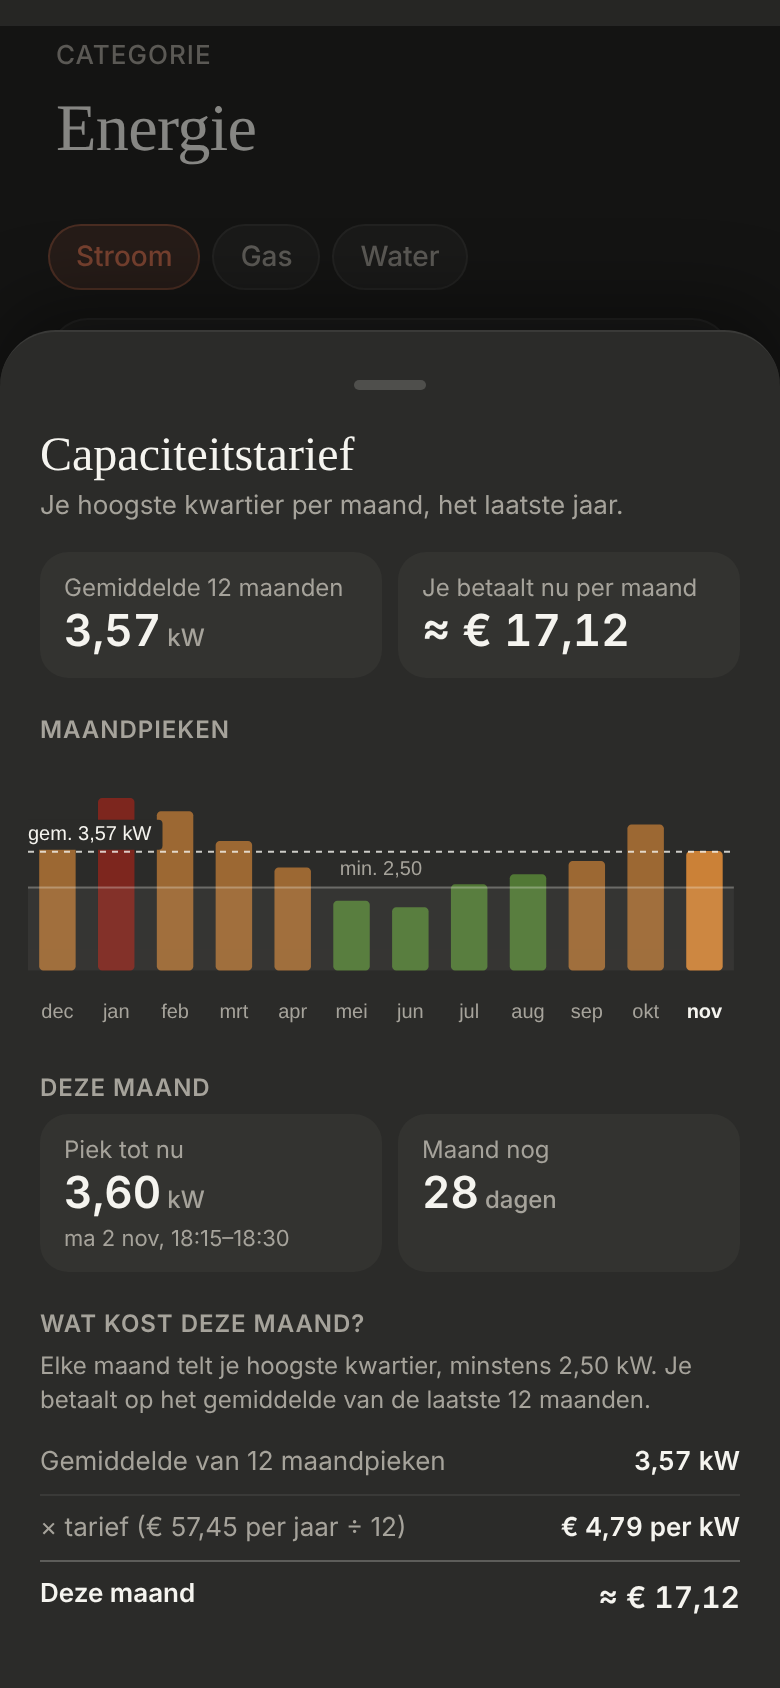
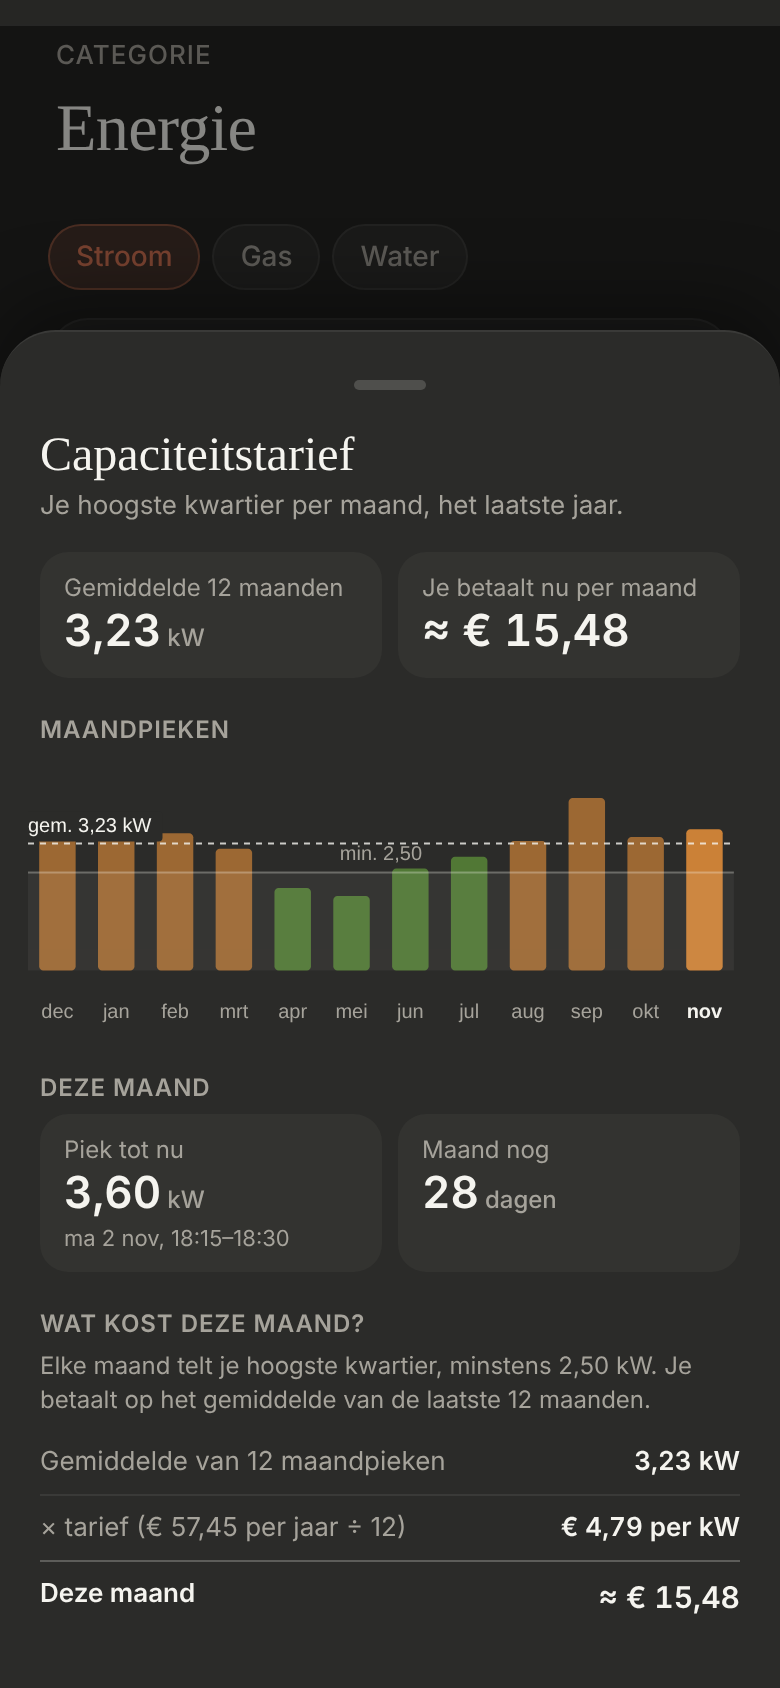
Energie: the capaciteitstarief's earlier months from a template sensor
The P1 meter's peak sensors have no state_class, so HA keeps no
statistics for them. The earlier 11 months now come from the template
sensor "P1 maandpieken" (its YAML is in the design doc); a month it
doesn't have counts as 3,5 kW.

Claude-Session: https://claude.ai/code/session_01KM6EwXvT22zbGn1J5Xot1E

diff --git a/src/components/energy/CapacitySheet.tsx b/src/components/energy/CapacitySheet.tsx
@@ -6,7 +6,7 @@ import 'apexcharts/bar';
 import 'apexcharts/features/annotations';
 import { ENERGY_QUARTER } from '../../config/energy';
 import { usePeriodicFetch } from '../../hooks/usePeriodicFetch';
-import { fetchMonthlyMaximums, fetchWhenValueWasReachedThisMonth, numberState, startOfMonth } from '../../lib/statistics';
+import { fetchWhenValueWasReachedThisMonth, numberState, startOfMonth } from '../../lib/statistics';
 import type { HomeAssistant } from '../../types/hass';
 import { BottomSheet } from '../BottomSheet';
 
@@ -15,8 +15,8 @@ interface Props {
   onClose(): void;
 }
 
-/** The months before this one don't change; this month's peak comes from the state. */
-const REFRESH_MONTHS_EVERY_MILLISECONDS = 5 * 60_000;
+/** When the peak was reached only changes with the peak itself; this is plenty. */
+const REFRESH_PEAK_MOMENT_EVERY_MILLISECONDS = 5 * 60_000;
 const QUARTER_HOUR = 15 * 60_000;
 const CHART_HEIGHT = 140;
 /** The earlier months' bars: their colour at 60% ("99" in hex); this month's is the full colour. */
@@ -37,87 +37,73 @@ interface MonthlyPeak {
  */
 export function CapacitySheet({ hass, onClose }: Props) {
   const peakThisMonthWatts = numberState(hass.states, ENERGY_QUARTER.monthPeak);
-  const monthlyMaximums = usePeriodicFetch(
-    () => fetchMonthlyMaximums(hass, ENERGY_QUARTER.monthPeak, ENERGY_QUARTER.monthsInAverage),
-    ENERGY_QUARTER.monthPeak,
-    REFRESH_MONTHS_EVERY_MILLISECONDS,
-  );
   const peakReachedAt = usePeriodicFetch(
     () => fetchWhenValueWasReachedThisMonth(hass, ENERGY_QUARTER.monthPeak),
     `${ENERGY_QUARTER.monthPeak} ${peakThisMonthWatts}`,
-    REFRESH_MONTHS_EVERY_MILLISECONDS,
+    REFRESH_PEAK_MOMENT_EVERY_MILLISECONDS,
   );
+  if (peakThisMonthWatts === undefined) return null;
 
-  const thisMonthStart = startOfMonth(0).getTime();
-  const earlierMonthlyPeaks: MonthlyPeak[] = (monthlyMaximums ?? [])
-    .filter((monthlyMaximum) => monthlyMaximum.monthStart < thisMonthStart)
-    .map((monthlyMaximum) => ({
-      monthStart: monthlyMaximum.monthStart,
-      kilowatts: monthlyMaximum.maximum / 1000,
-    }));
-  const thisMonthPeak: MonthlyPeak[] =
-    peakThisMonthWatts === undefined ? [] : [{ monthStart: thisMonthStart, kilowatts: peakThisMonthWatts / 1000 }];
-  const monthlyPeaks = [...earlierMonthlyPeaks, ...thisMonthPeak];
+  const savedPeakWattsPerMonth = savedMonthlyPeaks(hass);
+  const earlierMonthlyPeaks: MonthlyPeak[] = Array.from(
+    { length: ENERGY_QUARTER.monthsInAverage - 1 },
+    (_unused, monthNumber) => {
+      const monthStart = startOfMonth(ENERGY_QUARTER.monthsInAverage - 1 - monthNumber);
+      const savedPeakWatts = savedPeakWattsPerMonth[monthKey(monthStart)];
+      const peakWatts = savedPeakWatts ?? ENERGY_QUARTER.assumedPeakWattsForMissingMonth;
+      return { monthStart: monthStart.getTime(), kilowatts: peakWatts / 1000 };
+    },
+  );
+  const thisMonthPeak: MonthlyPeak = { monthStart: startOfMonth(0).getTime(), kilowatts: peakThisMonthWatts / 1000 };
+  const monthlyPeaks = [...earlierMonthlyPeaks, thisMonthPeak];
 
   const countedKilowatts = monthlyPeaks.map((monthlyPeak) => Math.max(ENERGY_QUARTER.minimumKilowatts, monthlyPeak.kilowatts));
   const averageKilowatts = countedKilowatts.reduce((sum, kilowatts) => sum + kilowatts, 0) / countedKilowatts.length;
   const euroPerKilowattPerMonth = ENERGY_QUARTER.euroPerKilowattPerYear / 12;
   const costThisMonth = averageKilowatts * euroPerKilowattPerMonth;
-  const numberOfMonths = monthlyPeaks.length;
-  const hasPeaks = numberOfMonths > 0;
 
   return (
     <BottomSheet label="Capaciteitstarief" className="capacity-sheet" onClose={onClose}>
       <h2 className="capacity-sheet__title">Capaciteitstarief</h2>
       <p className="capacity-sheet__subtitle">Je hoogste kwartier per maand, het laatste jaar.</p>
-      {hasPeaks && (
-        <>
-          <div className="capacity-sheet__figures">
-            <Figure
-              label={`Gemiddelde ${numberOfMonths} ${numberOfMonths === 1 ? 'maand' : 'maanden'}`}
-              value={twoDecimals(averageKilowatts)}
-              unit="kW"
-            />
-            <Figure label="Je betaalt nu per maand" value={`≈ ${euros(costThisMonth)}`} />
-          </div>
+      <div className="capacity-sheet__figures">
+        <Figure label={`Gemiddelde ${ENERGY_QUARTER.monthsInAverage} maanden`} value={twoDecimals(averageKilowatts)} unit="kW" />
+        <Figure label="Je betaalt nu per maand" value={`≈ ${euros(costThisMonth)}`} />
+      </div>
 
-          <h3 className="capacity-sheet__heading">Maandpieken</h3>
-          <MonthlyPeaksChart monthlyPeaks={monthlyPeaks} averageKilowatts={averageKilowatts} />
+      <h3 className="capacity-sheet__heading">Maandpieken</h3>
+      <MonthlyPeaksChart monthlyPeaks={monthlyPeaks} averageKilowatts={averageKilowatts} />
 
-          <h3 className="capacity-sheet__heading">Deze maand</h3>
-          <div className="capacity-sheet__figures">
-            {thisMonthPeak.length > 0 && (
-              <Figure
-                label="Piek tot nu"
-                value={twoDecimals(thisMonthPeak[0].kilowatts)}
-                unit="kW"
-                detail={peakReachedAt === undefined ? undefined : readableQuarterHour(peakReachedAt)}
-              />
-            )}
-            <Figure label="Maand nog" value={String(daysLeftInMonth())} unit={daysLeftInMonth() === 1 ? 'dag' : 'dagen'} />
-          </div>
+      <h3 className="capacity-sheet__heading">Deze maand</h3>
+      <div className="capacity-sheet__figures">
+        <Figure
+          label="Piek tot nu"
+          value={twoDecimals(thisMonthPeak.kilowatts)}
+          unit="kW"
+          detail={peakReachedAt === undefined ? undefined : readableQuarterHour(peakReachedAt)}
+        />
+        <Figure label="Maand nog" value={String(daysLeftInMonth())} unit={daysLeftInMonth() === 1 ? 'dag' : 'dagen'} />
+      </div>
 
-          <h3 className="capacity-sheet__heading">Wat kost deze maand?</h3>
-          <p className="capacity-sheet__intro">
-            Elke maand telt je hoogste kwartier, minstens {twoDecimals(ENERGY_QUARTER.minimumKilowatts)} kW. Je betaalt op het
-            gemiddelde van de laatste {ENERGY_QUARTER.monthsInAverage} maanden.
-          </p>
-          <ul className="capacity-sheet__calculation">
-            <li>
-              Gemiddelde van {numberOfMonths} {numberOfMonths === 1 ? 'maandpiek' : 'maandpieken'}
-              <strong>{twoDecimals(averageKilowatts)} kW</strong>
-            </li>
-            <li>
-              × tarief ({euros(ENERGY_QUARTER.euroPerKilowattPerYear)} per jaar ÷ 12)
-              <strong>{euros(euroPerKilowattPerMonth)} per kW</strong>
-            </li>
-            <li className="capacity-sheet__total">
-              Deze maand
-              <strong>≈ {euros(costThisMonth)}</strong>
-            </li>
-          </ul>
-        </>
-      )}
+      <h3 className="capacity-sheet__heading">Wat kost deze maand?</h3>
+      <p className="capacity-sheet__intro">
+        Elke maand telt je hoogste kwartier, minstens {twoDecimals(ENERGY_QUARTER.minimumKilowatts)} kW. Je betaalt op het
+        gemiddelde van de laatste {ENERGY_QUARTER.monthsInAverage} maanden.
+      </p>
+      <ul className="capacity-sheet__calculation">
+        <li>
+          Gemiddelde van {ENERGY_QUARTER.monthsInAverage} maandpieken
+          <strong>{twoDecimals(averageKilowatts)} kW</strong>
+        </li>
+        <li>
+          × tarief ({euros(ENERGY_QUARTER.euroPerKilowattPerYear)} per jaar ÷ 12)
+          <strong>{euros(euroPerKilowattPerMonth)} per kW</strong>
+        </li>
+        <li className="capacity-sheet__total">
+          Deze maand
+          <strong>≈ {euros(costThisMonth)}</strong>
+        </li>
+      </ul>
     </BottomSheet>
   );
 }
@@ -243,6 +229,23 @@ function MonthlyPeaksChart({ monthlyPeaks, averageKilowatts }: { monthlyPeaks: M
     </div>
   );
 }
+
+/**
+ * The peaks of the months before this one, in W by month ("2026-10"), as the
+ * template sensor "P1 maandpieken" keeps them in its `peaks` attribute
+ * (docs/design/energie-capaciteit). Empty while it doesn't exist.
+ */
+function savedMonthlyPeaks(hass: HomeAssistant): Record<string, number | undefined> {
+  const peaksAttribute = hass.states[ENERGY_QUARTER.monthlyPeaks]?.attributes.peaks;
+  const isPeaksObject = typeof peaksAttribute === 'object' && peaksAttribute !== null;
+  if (!isPeaksObject) return {};
+
+  const numberPeaks = Object.entries(peaksAttribute).map(([month, watts]) => [month, Number(watts)] as const);
+  return Object.fromEntries(numberPeaks.filter(([_month, watts]) => !Number.isNaN(watts)));
+}
+
+/** "2026-11", the way the template sensor names a month. */
+const monthKey = (monthStart: Date) => `${monthStart.getFullYear()}-${String(monthStart.getMonth() + 1).padStart(2, '0')}`;
 
 /** The quarter-hour bar's colour band a peak falls in: green up to 3 kW, orange up to 5, then red. */
 function colorFor(kilowatts: number): string {

diff --git a/src/dev/mockHass.ts b/src/dev/mockHass.ts
@@ -21,6 +21,19 @@ const entity = (entity_id: string, state: string, attributes: Attrs = {}): HassE
   context: { id: 'mock', user_id: null, parent_id: null },
 });
 
+/** The 8 months before this one, in W by month ("2026-10"), oldest first. */
+const earlierMonthlyPeaks = () => {
+  const peaks = [3100, 2100, 1900, 2600, 2900, 3300, 4400, 3400];
+  return Object.fromEntries(
+    peaks.map((watts, monthIndex) => {
+      const month = new Date();
+      month.setDate(1);
+      month.setMonth(month.getMonth() - peaks.length + monthIndex);
+      return [`${month.getFullYear()}-${String(month.getMonth() + 1).padStart(2, '0')}`, watts];
+    }),
+  );
+};
+
 /** A fake camera image: a dark gradient, as a data URL. The trailing "#" keeps a cache-buster harmless. */
 const cameraImage = (a: string, b: string, glow: string) => {
   const svg = `<svg xmlns="http://www.w3.org/2000/svg" width="640" height="360"><defs><linearGradient id="g" x1="0" y1="0" x2="0" y2="1"><stop offset="0" stop-color="${a}"/><stop offset="1" stop-color="${b}"/></linearGradient><radialGradient id="r" cx=".35" cy=".75" r=".5"><stop offset="0" stop-color="${glow}" stop-opacity=".55"/><stop offset="1" stop-color="${glow}" stop-opacity="0"/></radialGradient></defs><rect width="640" height="360" fill="url(#g)"/><rect width="640" height="360" fill="url(#r)"/></svg>`;
@@ -69,6 +82,8 @@ function baseStates(): HassEntities {
     entity('sensor.p1_meter_power', '196', { unit_of_measurement: 'W', device_class: 'power', state_class: 'measurement' }),
     entity('sensor.p1_meter_average_demand', '4600', { unit_of_measurement: 'W', device_class: 'power' }),
     entity('sensor.p1_meter_peak_demand_current_month', '3600', { unit_of_measurement: 'W', device_class: 'power' }),
+    // The template sensor with the earlier months' peaks (docs/design/energie-capaciteit); the oldest 3 are missing.
+    entity('sensor.p1_maandpieken', '3600', { unit_of_measurement: 'W', peaks: earlierMonthlyPeaks() }),
     entity('sensor.p1_meter_energy_consumption_daily', '8.13', { unit_of_measurement: 'kWh', state_class: 'total_increasing' }),
     entity('sensor.garage_smappee_total_production_today', '3.86', { unit_of_measurement: 'kWh', state_class: 'total_increasing' }),
     entity('sensor.p1_meter_energy_production_daily', '1.24', { unit_of_measurement: 'kWh', state_class: 'total_increasing' }),
@@ -340,20 +355,6 @@ export function createMockHass(onChange: (hass: HomeAssistant) => void) {
         (msg.statistic_ids as string[]).map((statisticId) => [
           statisticId,
           averages.map((mean, barNumber) => ({ start: firstStart + barNumber * fiveMinutes, mean })),
-        ]),
-      ) as T;
-    }
-    // The monthly peaks of the last year (docs/design/energie-capaciteit), in W; this month's comes from the state.
-    if (msg.type === 'recorder/statistics_during_period' && msg.period === 'month') {
-      const monthlyPeaks = [4100, 5200, 4800, 3900, 3100, 2100, 1900, 2600, 2900, 3300, 4400, 3400];
-      const firstMonth = new Date(String(msg.start_time));
-      return Object.fromEntries(
-        (msg.statistic_ids as string[]).map((statisticId) => [
-          statisticId,
-          monthlyPeaks.map((max, monthIndex) => ({
-            start: new Date(firstMonth.getFullYear(), firstMonth.getMonth() + monthIndex, 1).getTime(),
-            max,
-          })),
         ]),
       ) as T;
     }

diff --git a/src/lib/statistics.ts b/src/lib/statistics.ts
@@ -150,42 +150,6 @@ export function startOfMonth(monthsAgo: number) {
   return firstOfMonth;
 }
 
-export interface MonthlyMaximum {
-  /** Local midnight on the 1st of the month, in ms. */
-  monthStart: number;
-  maximum: number;
-}
-
-/**
- * A sensor's highest value per month, for this month and the
- * `numberOfMonths - 1` before it, oldest first: HA's long-term statistics
- * (`max`). This month's is as far as HA's last full hour. A month without
- * statistics is missing.
- */
-export async function fetchMonthlyMaximums(
-  hass: HomeAssistant,
-  entityId: string,
-  numberOfMonths: number,
-): Promise<MonthlyMaximum[]> {
-  const statisticsPerEntity = await hass.callWS<
-    Record<string, Array<{ start: number | string; max?: number | null }>> | undefined
-  >({
-    type: 'recorder/statistics_during_period',
-    start_time: startOfMonth(numberOfMonths - 1).toISOString(),
-    statistic_ids: [entityId],
-    period: 'month',
-    types: ['max'],
-  });
-
-  const monthlyRows = statisticsPerEntity?.[entityId] ?? [];
-  return monthlyRows
-    .filter((monthlyRow) => isNumber(monthlyRow.max))
-    .map((monthlyRow) => ({
-      monthStart: typeof monthlyRow.start === 'number' ? monthlyRow.start : Date.parse(monthlyRow.start),
-      maximum: monthlyRow.max as number,
-    }));
-}
-
 /**
  * When the sensor got its current value this month, from HA's history, in ms;
  * undefined when the history doesn't go back far enough to tell (HA keeps it

diff --git a/src/config/energy.ts b/src/config/energy.ts
@@ -36,6 +36,10 @@ export const ENERGY_QUARTER = {
   marksAtKilowatts: [4, 6],
   /** The sheet (docs/design/energie-capaciteit): the bill takes the average of this many monthly peaks. */
   monthsInAverage: 12,
+  /** The template sensor that keeps the earlier months' peaks, in its `peaks` attribute. */
+  monthlyPeaks: Entity.ELECTRICITY_MONTHLY_PEAKS,
+  /** A month the template sensor doesn't have (yet), in W. */
+  assumedPeakWattsForMissingMonth: 3500,
   /** Every monthly peak counts as at least this much. */
   minimumKilowatts: 2.5,
   /** Fluvius Imewo (around Gent), 2026, per kW of the average per year; billed per month (÷ 12). */

diff --git a/src/config/entities.ts b/src/config/entities.ts
@@ -95,6 +95,7 @@ export enum Entity {
   ELECTRICITY_POWER = 'sensor.p1_meter_power',
   ELECTRICITY_AVERAGE_DEMAND_THIS_QUARTER = 'sensor.p1_meter_average_demand',
   ELECTRICITY_PEAK_DEMAND_THIS_MONTH = 'sensor.p1_meter_peak_demand_current_month',
+  ELECTRICITY_MONTHLY_PEAKS = 'sensor.p1_maandpieken',
   ELECTRICITY_CONSUMPTION_TODAY = 'sensor.p1_meter_energy_consumption_daily',
   ELECTRICITY_PRODUCTION_TODAY = 'sensor.p1_meter_energy_production_daily',
   SOLAR_PRODUCTION_TODAY = 'sensor.garage_smappee_total_production_today',

diff --git a/docs/design/energie-capaciteit/README.md b/docs/design/energie-capaciteit/README.md
@@ -4,7 +4,7 @@ A bottom sheet with the capaciteitstarief over the year, opened from "Dit kwarti
 
 > ✅ **Sheet approved and built.** **How it opens isn't decided yet:** the owner didn't like L1–L3 in the options. For now a tap anywhere on the quarter-hour part opens it, with nothing on the card to show it. Don't change proportions or behaviour without asking first.
 >
-> Code: `CapacitySheet.tsx` and `QuarterPeak.tsx` in `src/components/energy/`, `ENERGY_QUARTER` in `src/config/energy.ts`, `fetchMonthlyMaximums` and `fetchWhenValueWasReachedThisMonth` in `src/lib/statistics.ts`, styles under "Capaciteitstarief" in `src/styles.css`.
+> Code: `CapacitySheet.tsx` and `QuarterPeak.tsx` in `src/components/energy/`, `ENERGY_QUARTER` in `src/config/energy.ts`, `fetchWhenValueWasReachedThisMonth` in `src/lib/statistics.ts`, the template sensor `sensor.p1_maandpieken` (below), styles under "Capaciteitstarief" in `src/styles.css`.
 
 The approved sheet: [`mockup.png`](./mockup.png) ([`mockup.html`](./mockup.html)). The first options for opening it (L1–L3, none chosen) and the first sheets (S1, S2): [`options.png`](./options.png) ([`options.html`](./options.html)). As built (dev mode, mock values):
 
@@ -29,7 +29,39 @@ All numbers with **two decimals** (the owner's choice), except the days.
 
 ## Where the numbers come from
 
-- **The earlier months:** HA's monthly long-term statistics (`max`) of `sensor.p1_meter_peak_demand_current_month`, fetched again every 5 minutes. It needs a `state_class`, or HA keeps no statistics. A month without statistics is left out, and the average is over the months there are ("Gemiddelde 4 maanden").
+- **The earlier 11 months:** the template sensor `sensor.p1_maandpieken` (below), its `peaks` attribute: the peak in W per month (`"2026-10": 3400`). HA keeps a sensor's current state and attributes across restarts and the 10-day purge, so the list grows by itself. **A month it doesn't have counts as 3,5 kW** (`ENERGY_QUARTER.assumedPeakWattsForMissingMonth`), the owner's choice to keep it simple; it isn't shown any differently. Without the sensor, all 11 are 3,5 kW.
 - **This month:** the sensor's state.
 - **When the peak was reached:** HA's history of the same sensor this month, the first moment of its current value. HA keeps history about 10 days, so for an older peak there's no time. Whether the meter updates the peak during the quarter-hour or at its end isn't checked: at its end, the shown quarter-hour would be one too late.
 - **The chart:** ApexCharts keeps 30px free above the bars; `grid.padding.top: -22` takes most of it away.
+
+## The template sensor (in HA's `configuration.yaml`)
+
+On every change of the month's peak, it stores that value under the current month, and keeps the last 12 months. The peak only rises within a month, so the latest value is the month's peak; a reset that comes in a few minutes late corrects itself with the next value. "unavailable" and the like are skipped.
+
+```yaml
+template:
+  - trigger:
+      - trigger: state
+        entity_id: sensor.p1_meter_peak_demand_current_month
+    condition:
+      - condition: template
+        value_template: "{{ trigger.to_state.state | is_number }}"
+    sensor:
+      - name: P1 maandpieken
+        unique_id: p1_monthly_peaks
+        unit_of_measurement: W
+        state: "{{ trigger.to_state.state }}"
+        attributes:
+          peaks: >
+            {% set month = now().strftime('%Y-%m') %}
+            {% set peaks = this.attributes.peaks | default({}) %}
+            {% set merged = dict(peaks, **{month: trigger.to_state.state | float}) %}
+            {% set newest_months = (merged.keys() | list | sort)[-12:] %}
+            {% set kept = namespace(peaks={}) %}
+            {% for kept_month in newest_months %}
+              {% set kept.peaks = dict(kept.peaks, **{kept_month: merged[kept_month]}) %}
+            {% endfor %}
+            {{ kept.peaks }}
+```
+
+Earlier months can be added by hand once (e.g. from mijn.fluvius.be), but HA's attributes can't be edited in the UI; that would need an extra step, so for now missing months are 3,5 kW.
